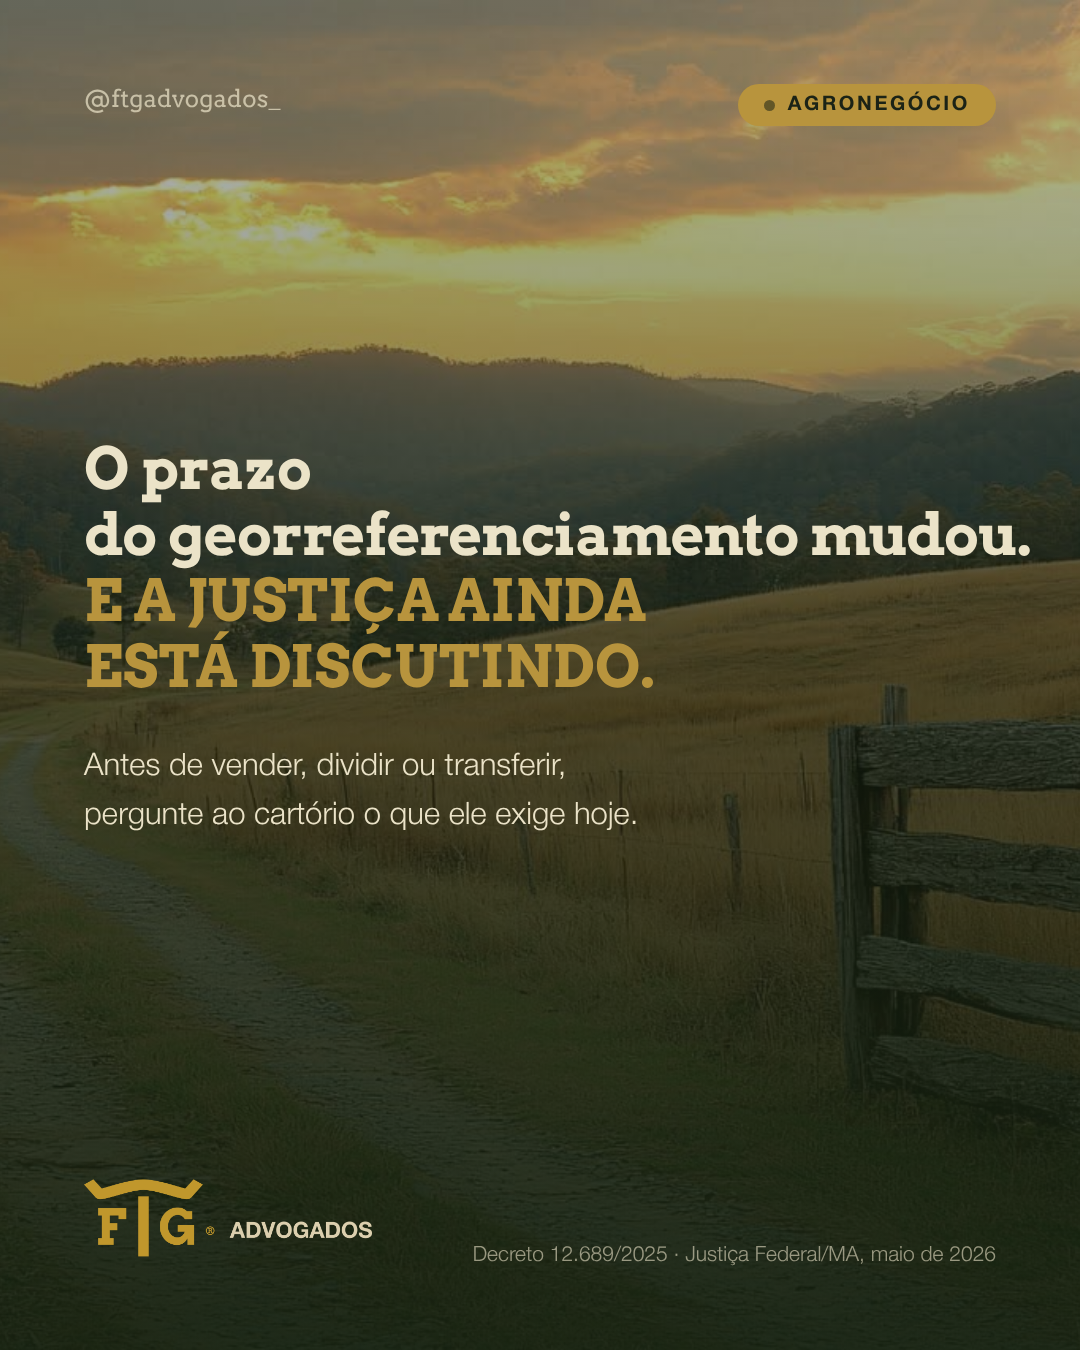
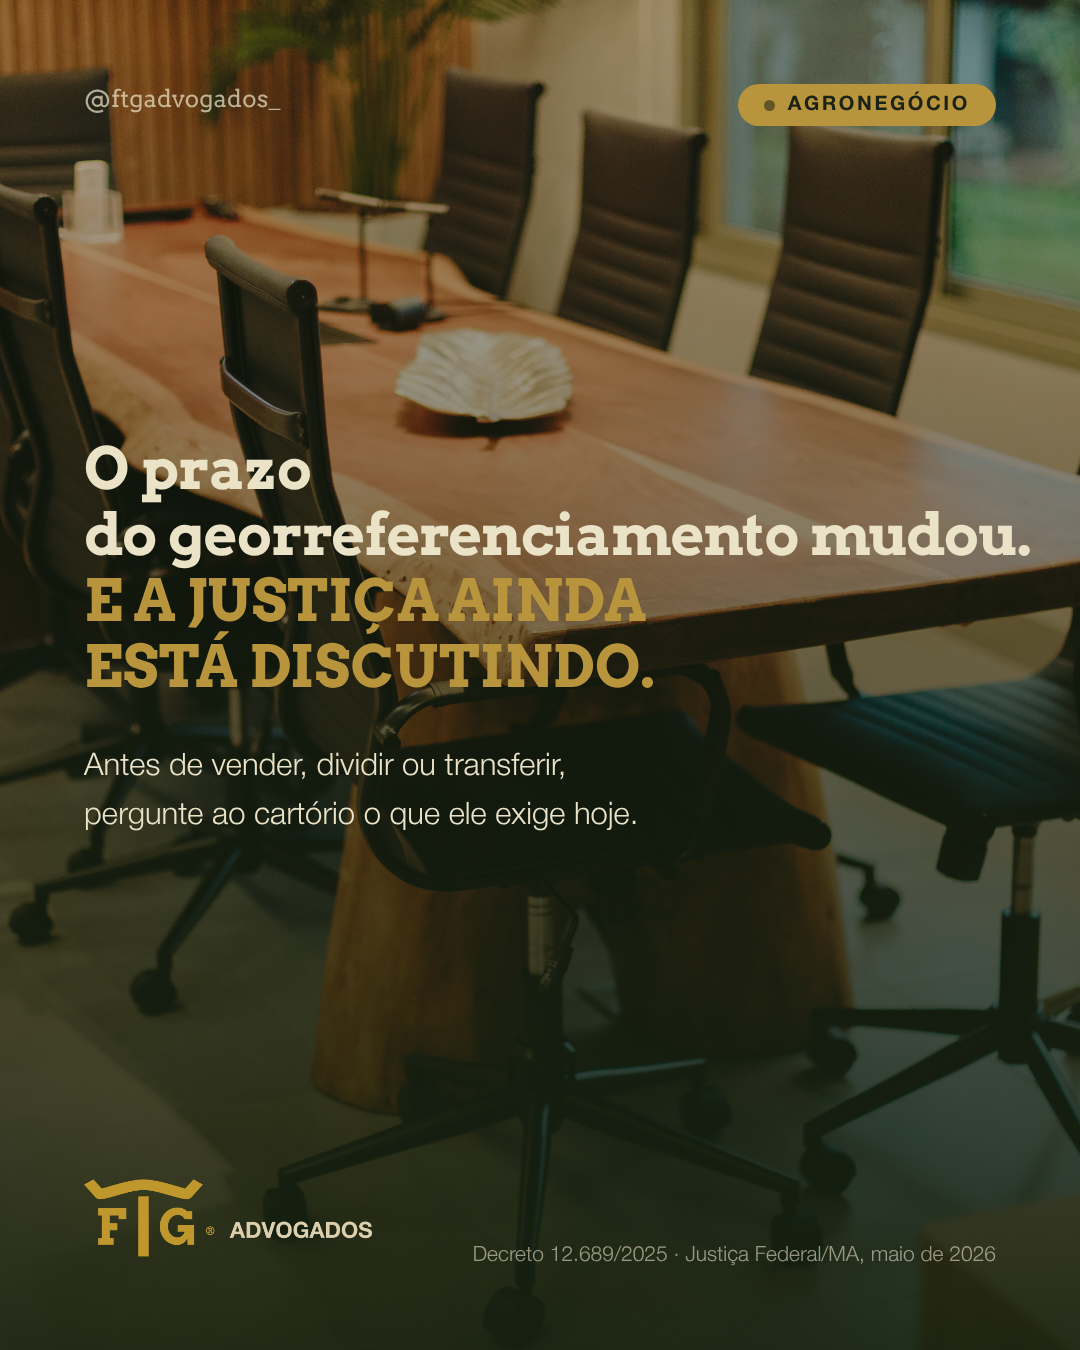
Foto do escritório no estático de 13/11
Sala de reuniões no lugar da paisagem, a pedido do Victor.
pasta-gorayeb.jpg fica fora: mostra o nome antigo impresso.

Claude-Session: https://claude.ai/code/session_01PNm9HeejNLCDTQ5J6fF2k9

diff --git a/docs/gorayeb/diario.md b/docs/gorayeb/diario.md
@@ -646,3 +646,19 @@ liminar. Conferido em 03/11:
 
 Escala `curta` nova no `.frase`, de 58px: "georreferenciamento" não cabia nem no
 menor. A regra de duas linhas no apoio valeu de novo.
+
+**03/11/2026 · foto do escritório no estático de 13/11**
+
+Pedido do Victor: trocar a paisagem por foto do escritório. Ficou a sala de
+reuniões, que combina com o recado da peça, que é sentar e perguntar antes de
+mexer na terra. Fachada e o F|G na madeira ficaram como alternativa.
+
+Duas coisas que apareceram na busca:
+
+- **`img/pasta-gorayeb.jpg` está queimada.** Mostra "GORAYEB ADVOCACIA" impresso
+  na papelaria. Não entra em peça nenhuma enquanto não houver papelaria nova.
+- **O banco do escritório só tem detalhe e objeto.** Fachada, mesa vazia, madeira
+  com o símbolo, dama da justiça, alfinete. Nenhuma pessoa. Por isso as peças
+  caem em paisagem toda vez que pedem presença humana, e o bloco previdenciário
+  inteiro fala de gente. Vale meia hora de fotógrafo no escritório: atendimento,
+  mãos sobre documento, conversa na mesa. Com a marca nova, é a hora.
